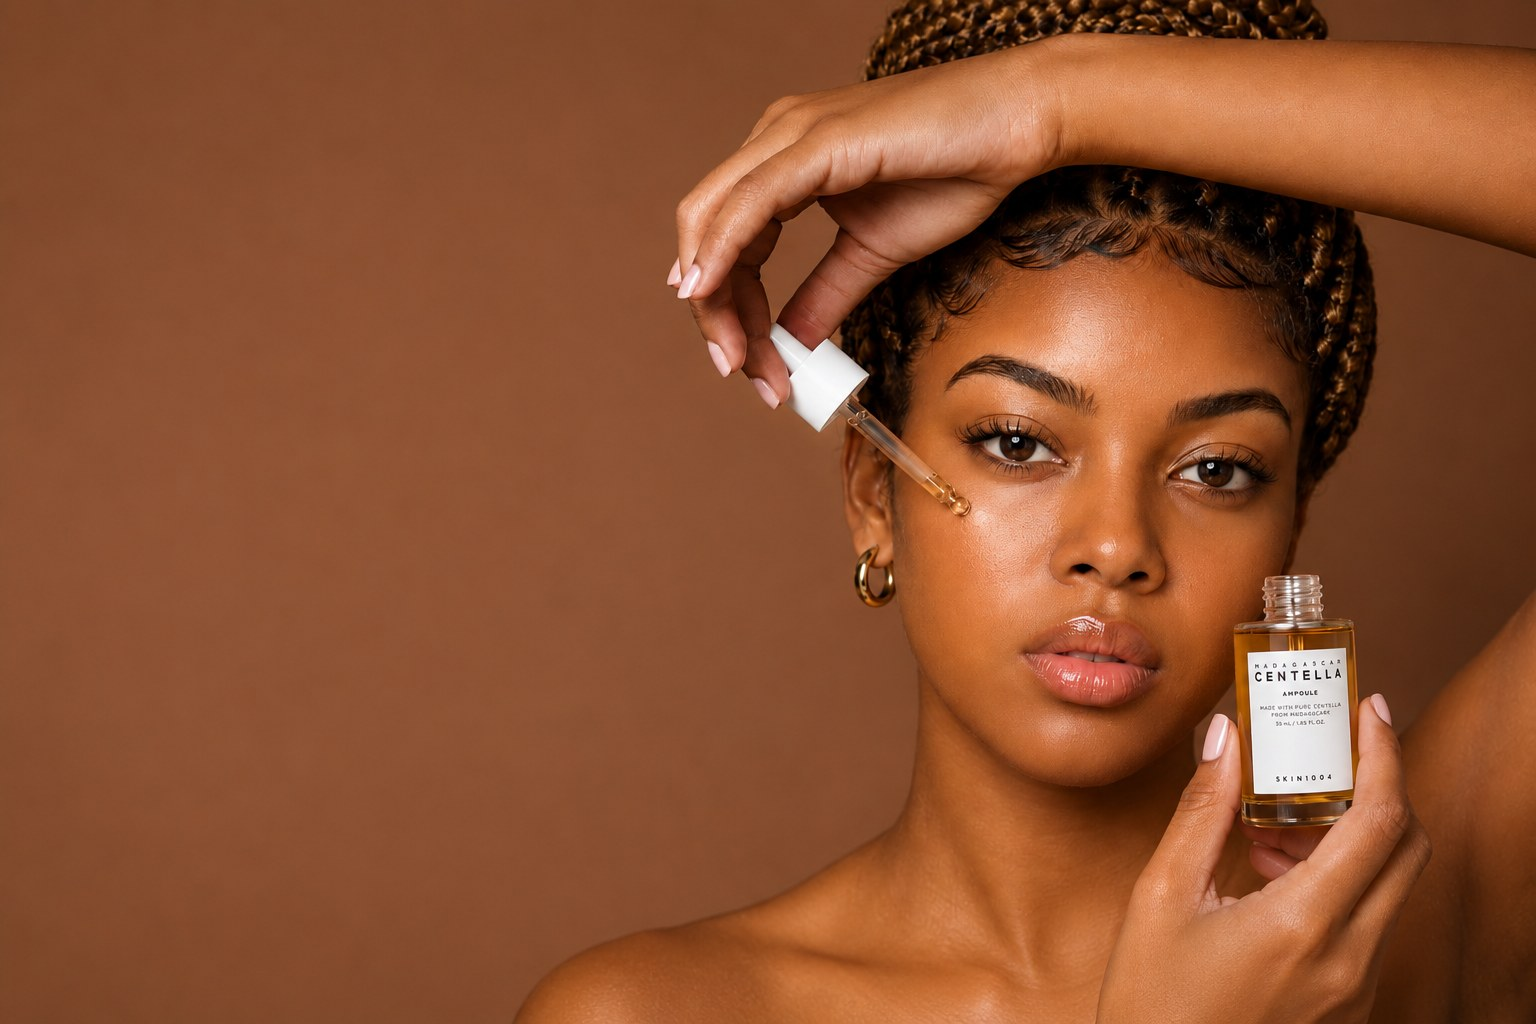
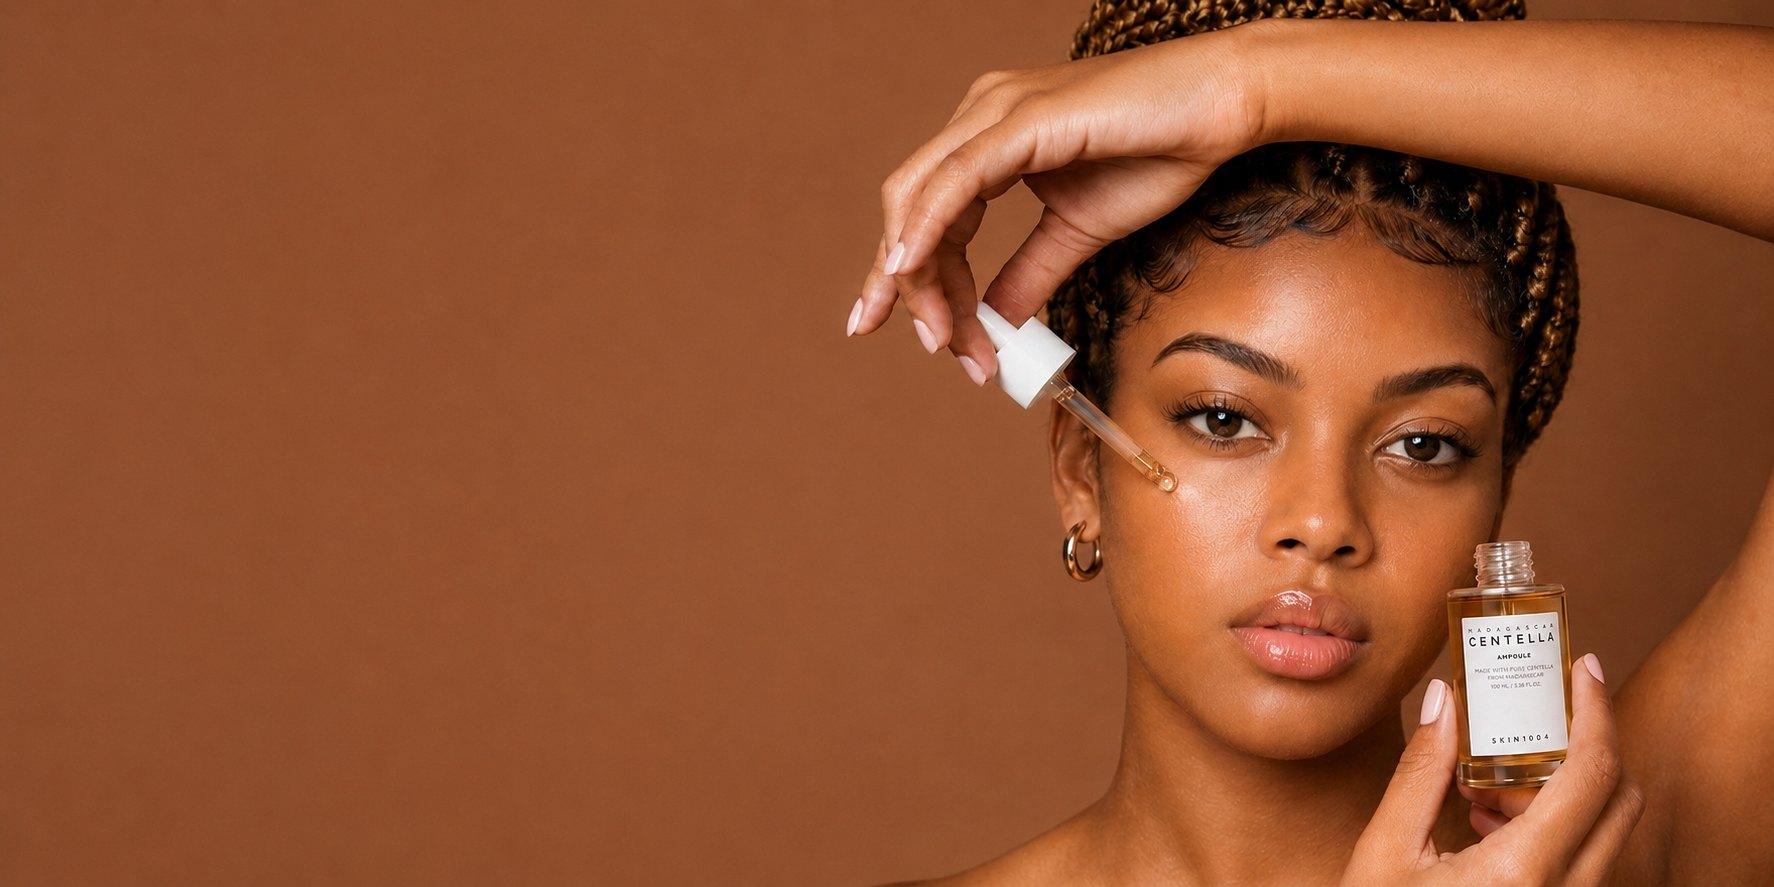
Homepage hero: replace slide 1 with the wider cut of the same shot
Same model, pose and product as before, but framed 2:1 instead of 3:2. The old
cut was the only cover on the site at 3:2, so it lost about a fifth of its
height to the hero band; this one very nearly matches it. Intrinsic dimensions
in the markup update automatically.

Changed region(s): [[0.4062, 0.0, 1.0, 1.0], [0.3438, 0.9436, 0.4375, 1.0], [0.5625, 0.7914, 0.5938, 0.8219]]

diff --git a/dist/index.html b/dist/index.html
@@ -79,8 +79,8 @@
 <!-- ===== Hero (full-bleed cover slideshow) ===== -->
 <section class="hero hero--cover hero--dark" data-hero-slider>
   <div class="hero__slide is-active" data-slide="0">
-    <img class="ph-img hero__backdrop" src="assets/products/cassaro-cover-1.jpg" alt="Cassaro Beauty Hero Image" width="1536" height="1024" fetchpriority="high"/>
-    <img class="ph-img hero__cover" src="assets/products/cassaro-cover-1.jpg" alt="Cassaro Beauty Hero Image" width="1536" height="1024" fetchpriority="high"/>
+    <img class="ph-img hero__backdrop" src="assets/products/cassaro-cover-1.jpg" alt="Cassaro Beauty Hero Image" width="1774" height="887" fetchpriority="high"/>
+    <img class="ph-img hero__cover" src="assets/products/cassaro-cover-1.jpg" alt="Cassaro Beauty Hero Image" width="1774" height="887" fetchpriority="high"/>
   </div>
   <div class="hero__slide" data-slide="1">
     <img class="ph-img hero__backdrop" src="assets/products/cassaro-cover-2.jpg" alt="Cassaro Beauty Hero Image 2" width="1740" height="904" fetchpriority="high"/>
